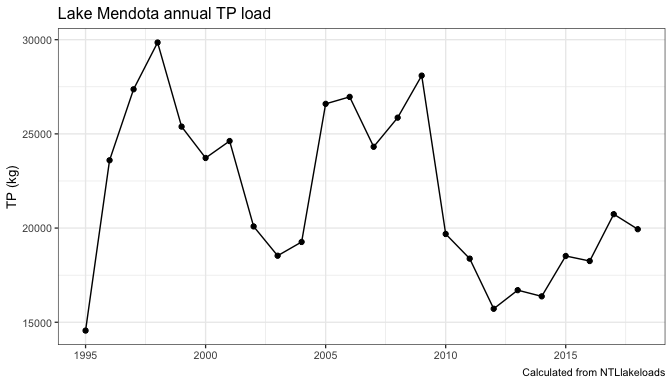
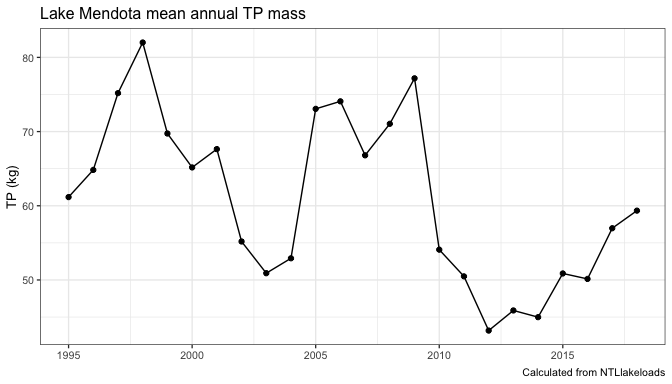
updated README

diff --git a/README.md b/README.md
@@ -3,7 +3,7 @@
 
 ## Why?
 
-A better way of interpolating nutrient data in the lakes. Both for load
+A better way of interpolating nutrient data in the lakes. Both for mass
 calculations and for data visualization.
 
 We often linearly interpolate water quality observations between
@@ -13,6 +13,13 @@ Here, I provide functions to interpolate water quality observations
 leveraging information on lake stratification from temperature data.
 Often there is more temperature data than water quality data, which
 results in better interpolation.
+
+The functions in this package allow you to: \* Load NTL-LTER data from
+EDI \* Interpolate water quality data to a weekly, 1-m interval,
+dataframe \* Plot data \* Calculate weekly mass and mean annual mass
+
+Why is it called lakeloads? Mass cacluations can be used to infer
+loading.
 
 ## Installation
 
@@ -82,34 +89,34 @@ plotTimeseries.year(df.interpolated = df.ME$weeklyInterpolated, var = 'totpuf_sl
 
 ![](man/figures/README-unnamed-chunk-5-2.png)<!-- -->
 
-## Calculate load at annual or weekly timescales
+## Calculate mass at annual or weekly timescales
 
 ``` r
-df.load.annual = calcLoad(df.ME$weeklyInterpolated,lakeAbr = 'ME', time.res = 'annual', conversion = 1e6)
+df.mass.annual = calcMass(df.ME$weeklyInterpolated,lakeAbr = 'ME', time.res = 'annual', conversion = 1e6)
 ```
 
-## Example of plotting annual load
+## Example of plotting annual mass
 
 ``` r
 library(ggplot2)
 
-ggplot(df.load.annual, aes(x = year, y = load)) +
+ggplot(df.mass.annual, aes(x = year, y = mass)) +
   geom_path() +
   geom_point() +
   ylab('TP (kg)') +
-  labs(title = 'Lake Mendota annual TP load', caption = 'Calculated from NTLlakeloads') +  
+  labs(title = 'Lake Mendota mean annual TP mass', caption = 'Calculated from NTLlakeloads') +  
   theme_bw(base_size = 10) +
   theme(axis.title.x = element_blank())
 ```
 
 ![](man/figures/README-unnamed-chunk-7-1.png)<!-- -->
 
-## Decompose weekly load timeseries to analyse trends and seasonality
+## Decompose weekly mass timeseries to analyse trends and seasonality
 
 ``` r
-df.load = calcLoad(df.ME$weeklyInterpolated,lakeAbr = 'ME', time.res = 'weekly', conversion = 1e6)
+df.mass = calcMass(df.ME$weeklyInterpolated,lakeAbr = 'ME', time.res = 'weekly', conversion = 1e6)
 
-decomposeTS(df.load, lakeAbr = 'ME', var = 'totpuf_sloh')
+decomposeTS(df.mass, lakeAbr = 'ME', var = 'totpuf_sloh')
 ```
 
 ![](man/figures/README-unnamed-chunk-8-1.png)<!-- -->
@@ -117,14 +124,14 @@ decomposeTS(df.load, lakeAbr = 'ME', var = 'totpuf_sloh')
     #> # A tibble: 4,904 × 3
     #>    date       decompose value
     #>    <date>     <fct>     <dbl>
-    #>  1 1995-05-09 var.load   43.1
+    #>  1 1995-05-09 var.mass   43.1
     #>  2 1995-05-09 var.trend  NA  
     #>  3 1995-05-09 var.seas  -13.2
     #>  4 1995-05-09 var.err    NA  
-    #>  5 1995-05-16 var.load   44.0
+    #>  5 1995-05-16 var.mass   44.0
     #>  6 1995-05-16 var.trend  NA  
     #>  7 1995-05-16 var.seas  -13.6
     #>  8 1995-05-16 var.err    NA  
-    #>  9 1995-05-23 var.load   45.0
+    #>  9 1995-05-23 var.mass   45.0
     #> 10 1995-05-23 var.trend  NA  
     #> # … with 4,894 more rows
